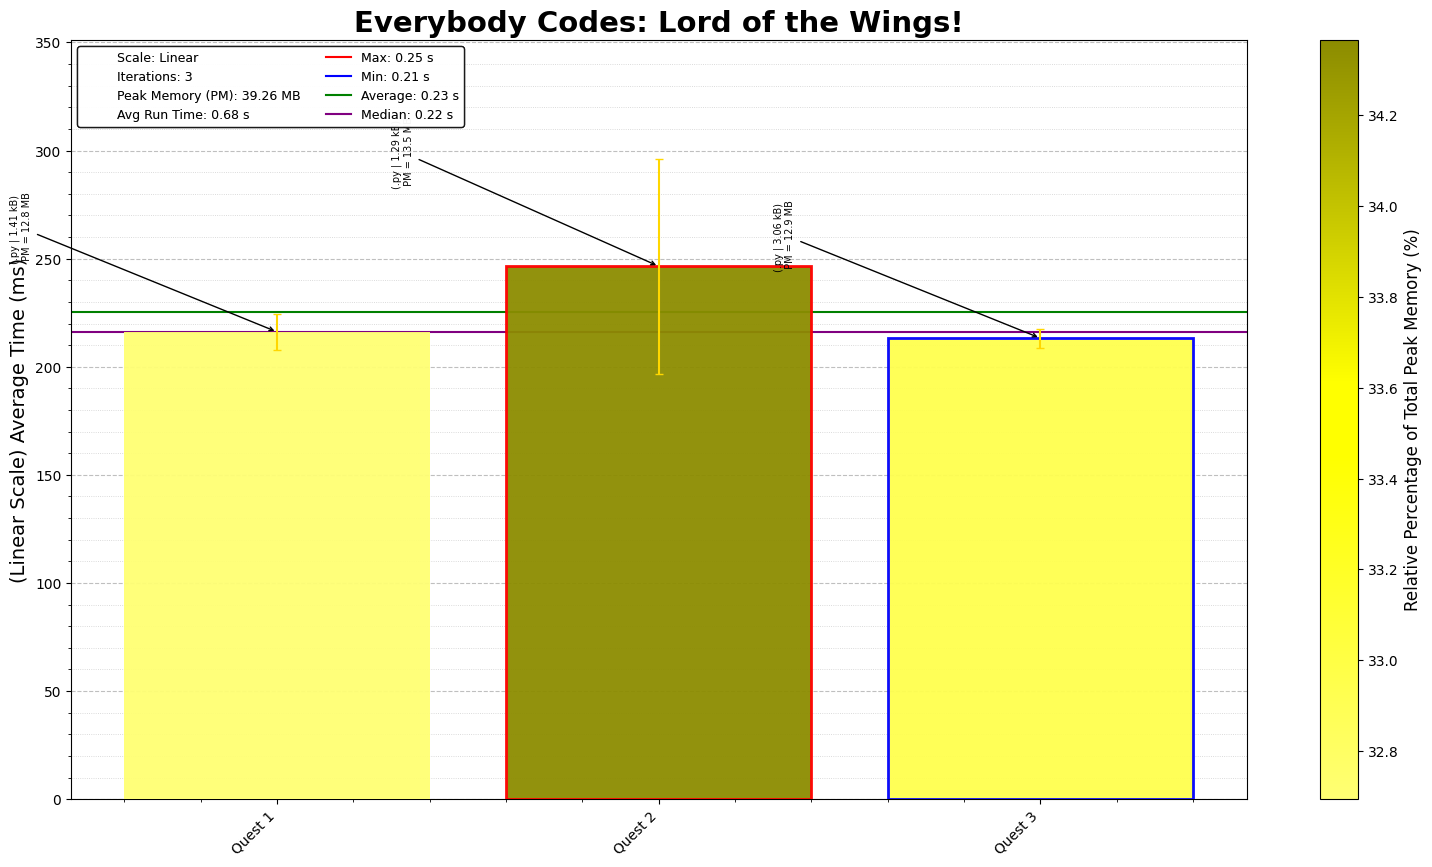
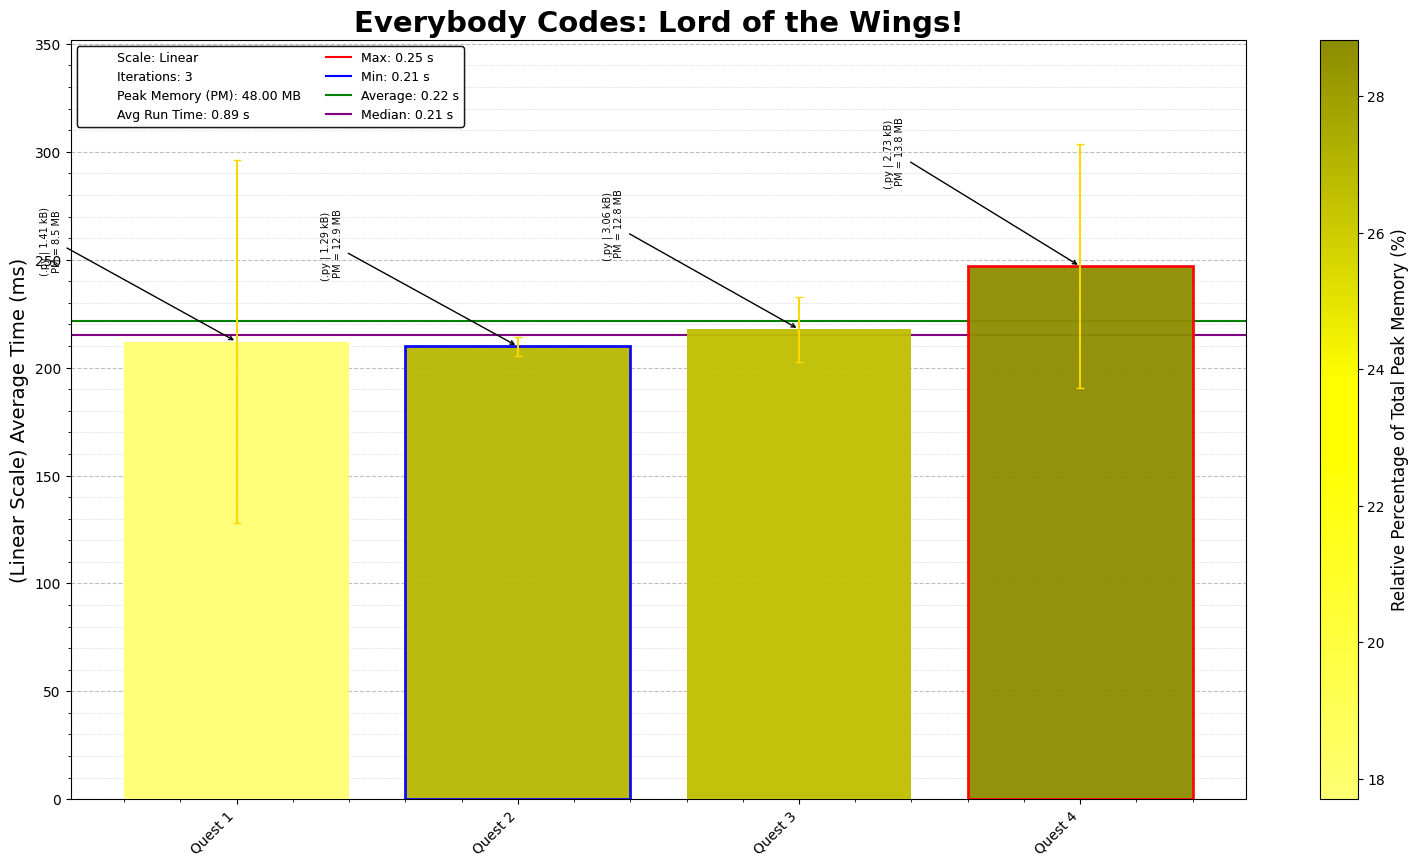
EC 2026, Quest 04

diff --git a/2026/04/2026Day04.py b/2026/04/2026Day04.py
@@ -1,0 +1,83 @@
+"""Everybody Codes - Quest 4, Year 2026
+Solution Started: October 30, 2026
+Puzzle Link: https://everybody.codes/event/2026/quests/4
+Solution by: Abbas Moosajee
+Brief: [The Rankening]"""
+
+#!/usr/bin/env python3
+from pathlib import Path
+from collections import defaultdict, deque
+
+# List of input file names
+input_files = ["Day04_input_p1.txt", "Day04_input_p2.txt", "Day04_input_p3.txt"]
+
+# Read and split the input data into individual lists
+input_data_p1, input_data_p2, input_data_p3 = [
+    open(Path(__file__).parent / file).read().strip().split('\n')
+    for file in input_files
+]
+
+def calc_checksum_p1(input_data):
+    time_dict = defaultdict(int)
+    for line in input_data:
+        data = {k: int(v) for item in line.split() for k, v in [item.split("=")]}
+        time_dict[data["id"]] += data["time"]
+    sort_times = sorted(time_dict.values())
+    return sum(pos * val for pos, val in enumerate(sort_times, start=1))
+
+def calc_checksum_p2(input_data):
+    time_dict = defaultdict(lambda: {"time": 0, "part": 0})
+    for line in input_data:
+        data = {k: int(v) for item in line.split() for k, v in [item.split("=")]}
+        time_dict[data["id"]]["time"] += data["time"]
+        time_dict[data["id"]]["part"] += 1
+    sorted_times = sorted(
+        time_dict.items(),
+        key=lambda kv: (-kv[1]["part"], kv[1]["time"]),
+    )
+    return sum(rank * val["time"] for rank, (_, val) in enumerate(sorted_times, start=1))
+
+def score_quests(input_data):
+    records = [[int(kv.split("=")[1]) for kv in line.split()] for line in input_data]
+
+    n = len({rec[0] for rec in records})
+
+    rounds = defaultdict(list)
+    for pid, quest, part, time in records:
+        rounds[(quest, part)].append((time, pid))
+
+    scores = [0] * n
+    totals = [0] * n
+    for (quest, part), entries in sorted(rounds.items()):
+        if part == 1:
+            totals = [0] * n
+        for time, pid in entries:
+            totals[pid - 1] += time
+
+        ranked = sorted((totals[pid - 1], pid) for _, pid in entries)
+        base = part * 50
+        prev = None
+        points = base
+
+        for idx, (t, pid) in enumerate(ranked):
+            if t != prev:
+                points = base - idx
+                if points < 0:
+                    break
+            scores[pid - 1] += points
+            prev = t
+
+    total = 0
+    rank = 0
+    prev = None
+    for idx, score in enumerate(sorted(scores, reverse=True), start=1):
+        if score != prev:
+            rank = idx
+            prev = score
+        total += rank * score
+    return total
+
+print("EC 2026, Quest 04")
+print("Part 1:", calc_checksum_p1(input_data_p1))
+print("Part 2:", calc_checksum_p2(input_data_p2))
+print("Part 3:", score_quests(input_data_p3))

diff --git a/2026/README_2026.md b/2026/README_2026.md
@@ -9,3 +9,4 @@ This repository contains coding solutions for the 2026 Everybody Codes. Each day
 1. **Day 1 - The Conservation**: Simple exercise, took a while to debug it tho.
 2. **Day 2 - The Axeperiment**: Well this was a different algorithm to learn
 3. **Day 3 - The ISOlation**: Simple and fun exercise, part 3 isnt too bad once you figure an approach
+4. **Day 4 - The Rankening**: Quick, easy and fun
